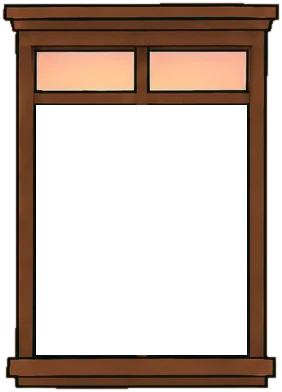
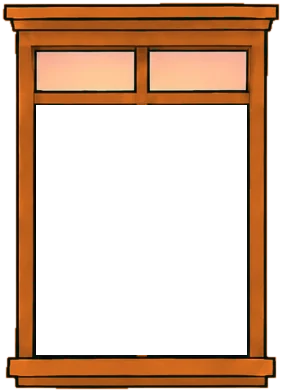
창문 — 레퍼런스 좌표 그대로 배치(벽 비율 1024×1440, 한 화면에 9개), 창틀은 메인 짙은 주황, 벽돌도 그림에서 오려 씀, 창마다 id

Changed region(s): [[0.0, 0.0, 0.9929, 1.0]]

diff --git a/src/pages/HousePage.tsx b/src/pages/HousePage.tsx
@@ -1,4 +1,4 @@
-import { useState, type CSSProperties } from 'react';
+import { useState } from 'react';
 import { useContent } from '../i18n';
 import type { ProgramId } from '../data/types';
 import { href } from '../lib/router';
@@ -21,6 +21,7 @@ import campingFrame from '../assets/windows/camping-frame.webp';
 import campingCover from '../assets/windows/camping-cover.webp';
 import wineFrame from '../assets/windows/wine-frame.webp';
 import wineCover from '../assets/windows/wine-cover.webp';
+import bricksUrl from '../assets/windows/bricks.webp';
 
 /**
  * PAGE 02 — 창문 탐색 (ROOM TOUR)
@@ -96,19 +97,14 @@ export function HousePage({ embedded = false }: { embedded?: boolean }) {
         </nav>
       ) : (
       <nav className="facade wrap" aria-label={ui.house.houseAria}>
-        {/* 벽에 자잘하게 그은 벽돌 스케치 — 창문 뒤 */}
-        <span className="facade__bricks" aria-hidden="true">
-          {BRICKS.map(([x, y]) => (
-            <span key={`${x}-${y}`} className="brick" style={{ left: `${x}%`, top: `${y}%` }} />
-          ))}
-        </span>
-        <ul className="facade__grid">
+        {/* 레퍼런스 그림(1024 × 1440 영역)과 같은 비율의 벽 — 창문 · 벽돌을 그림 속 좌표 그대로 놓고, 화면에 맞춰 통째로 줄어듦 */}
+        <div className="facade__wall">
+          {/* 벽돌 스케치 — 받은 그림에서 오려 낸 선 그대로 (창문과 같은 먹선) */}
+          <img className="facade__bricks" src={bricksUrl} alt="" aria-hidden="true" />
           {WINDOWS.map((w) => (
-            <li key={w.id}>
-              <Window {...w} />
-            </li>
+            <Window key={w.id} {...w} />
           ))}
-        </ul>
+        </div>
       </nav>
       )}
     </section>
@@ -116,45 +112,43 @@ export function HousePage({ embedded = false }: { embedded?: boolean }) {
 }
 
 /**
- * 창문 아홉 개 — 받은 창문 그림을 그대로 오려 씀(초록 창틀은 나무색으로, 벽은 투명).
+ * 창문 아홉 개 — 받은 창문 그림(1024 × 1536)을 창마다 따로 오려 씀. 초록 창틀은 웹진 메인 짙은 주황(--orange-ink)으로, 초록 벽은 투명.
  * 한 창 = 창틀 그림(frame, 큰 창 자리만 뚫림) + 큰 창 자리의 방 그림 + 그 앞을 가린 커튼 · 블라인드 · 간유리 · 덧창(cover).
- * w · h 는 그림 크기(px), pane 은 큰 창 자리(그림 기준 % — 왼쪽 · 위 · 너비 · 높이),
- * dx · dy 는 줄 맞춤에서 살짝 어긋나게 옮기는 정도(칸 기준 %) — 간격은 그대로, 배치만 불규칙하게.
+ * l · t · w 는 그림 속 위치 · 너비(벽 기준 %, 벽 = 그림의 y 40–1480 영역), ratio 는 창 그림 비율,
+ * pane 은 큰 창 자리(창 그림 기준 % — 왼쪽 · 위 · 너비 · 높이).
  */
 type Cover = 'curtain' | 'blind' | 'frost' | 'shutter';
-/** 벽돌 스케치 위치 (벽 기준 %, 왼쪽 · 위) — 창문 사이 빈 벽에 띄엄띄엄 */
-const BRICKS: [number, number][] = [
-  [3, 2], [62, 1], [93, 4], [35, 31], [95, 34], [1, 64], [64, 64], [30, 95], [88, 96],
-];
-type WindowArt = { id: ProgramId; frame: string; cover: string; w: number; h: number; pane: [number, number, number, number]; kind: Cover; dx: number; dy: number };
+type WindowArt = { id: ProgramId; frame: string; cover: string; kind: Cover; l: number; t: number; w: number; ratio: string; pane: [number, number, number, number] };
 const WINDOWS: WindowArt[] = [
-  { id: 'book', frame: bookFrame, cover: bookCover, w: 263, h: 340, pane: [11.03, 26.18, 77.57, 63.82], kind: 'curtain', dx: -3, dy: 4 },
-  { id: 'craft', frame: craftFrame, cover: craftCover, w: 275, h: 386, pane: [13.82, 25.91, 73.45, 65.03], kind: 'blind', dx: 4, dy: -9 },
-  { id: 'flower', frame: flowerFrame, cover: flowerCover, w: 264, h: 332, pane: [10.98, 27.71, 77.65, 61.75], kind: 'frost', dx: -2, dy: 8 },
-  { id: 'cinema', frame: cinemaFrame, cover: cinemaCover, w: 290, h: 378, pane: [12.07, 26.46, 75.86, 64.29], kind: 'blind', dx: 5, dy: -2 },
-  { id: 'lp', frame: lpFrame, cover: lpCover, w: 266, h: 385, pane: [12.41, 25.71, 75.19, 65.19], kind: 'curtain', dx: -4, dy: 10 },
-  { id: 'homemeal', frame: homemealFrame, cover: homemealCover, w: 278, h: 374, pane: [11.15, 26.2, 77.34, 64.44], kind: 'frost', dx: 3, dy: -6 },
-  { id: 'running', frame: runningFrame, cover: runningCover, w: 275, h: 400, pane: [14.55, 26.5, 70.91, 62], kind: 'shutter', dx: -5, dy: 6 },
-  { id: 'camping', frame: campingFrame, cover: campingCover, w: 282, h: 392, pane: [12.77, 26.79, 74.82, 63.78], kind: 'frost', dx: 2, dy: -5 },
-  { id: 'wine', frame: wineFrame, cover: wineCover, w: 274, h: 399, pane: [10.95, 24.06, 78.1, 66.67], kind: 'curtain', dx: 6, dy: 9 },
+  { id: 'book', frame: bookFrame, cover: bookCover, kind: 'curtain', l: 4.39, t: 7.64, w: 25.68, ratio: '263 / 340', pane: [11.03, 26.18, 77.57, 63.82] },
+  { id: 'craft', frame: craftFrame, cover: craftCover, kind: 'blind', l: 33.2, t: 1.32, w: 26.86, ratio: '275 / 386', pane: [13.82, 25.91, 73.45, 65.03] },
+  { id: 'flower', frame: flowerFrame, cover: flowerCover, kind: 'frost', l: 66.11, t: 8.4, w: 25.78, ratio: '264 / 332', pane: [10.98, 27.71, 77.65, 61.75] },
+  { id: 'cinema', frame: cinemaFrame, cover: cinemaCover, kind: 'blind', l: 3.22, t: 33.75, w: 28.32, ratio: '290 / 378', pane: [12.07, 26.46, 75.86, 64.29] },
+  { id: 'lp', frame: lpFrame, cover: lpCover, kind: 'curtain', l: 36.04, t: 35.56, w: 25.98, ratio: '266 / 385', pane: [12.41, 25.71, 75.19, 65.19] },
+  { id: 'homemeal', frame: homemealFrame, cover: homemealCover, kind: 'frost', l: 67.38, t: 35.9, w: 27.15, ratio: '278 / 374', pane: [11.15, 26.2, 77.34, 64.44] },
+  { id: 'running', frame: runningFrame, cover: runningCover, kind: 'shutter', l: 4.2, t: 65.97, w: 26.86, ratio: '275 / 400', pane: [14.55, 26.5, 70.91, 62] },
+  { id: 'camping', frame: campingFrame, cover: campingCover, kind: 'frost', l: 35.16, t: 66.32, w: 27.54, ratio: '282 / 392', pane: [12.77, 26.79, 74.82, 63.78] },
+  { id: 'wine', frame: wineFrame, cover: wineCover, kind: 'curtain', l: 69.73, t: 66.18, w: 26.76, ratio: '274 / 399', pane: [10.95, 24.06, 78.1, 66.67] },
 ];
 
-function Window({ id, frame, cover, w, h, pane, kind, dx, dy }: WindowArt) {
+/** 창 하나 — 따로 떨어진 요소(id: window-…)라 창마다 클릭 · 호버 · 여는 그림을 따로 붙일 수 있음 */
+function Window({ id, frame, cover, kind, l, t, w, ratio, pane }: WindowArt) {
   const { ui, experienceById, programById } = useContent();
   const e = experienceById[id];
   const place = programById[id].report.place.name;
-  const [l, t, pw, ph] = pane;
+  const [pl, pt, pw, ph] = pane;
   const half = { backgroundImage: `url(${cover})` };
   return (
     <a
+      id={`window-${id}`}
       className={`win win--${kind}`}
       href={href.stay(id)}
       aria-label={ui.house.roomAria(e.no, e.label, place)}
       data-track={`house_${id}`}
-      style={{ width: `${(w / 290) * 100}%`, aspectRatio: `${w} / ${h}`, translate: `${dx}% ${dy}%` } as CSSProperties}
+      style={{ left: `${l}%`, top: `${t}%`, width: `${w}%`, aspectRatio: ratio }}
     >
       {/* 큰 창 자리 — 방 그림, 그 앞을 가린 두 짝 */}
-      <span className="win__pane" style={{ left: `${l}%`, top: `${t}%`, width: `${pw}%`, height: `${ph}%` }} aria-hidden="true">
+      <span className="win__pane" style={{ left: `${pl}%`, top: `${pt}%`, width: `${pw}%`, height: `${ph}%` }} aria-hidden="true">
         <RoomArt id={id} />
         <span className="win__cover">
           <span className="win__half win__half--l" style={half} />
@@ -162,7 +156,7 @@ function Window({ id, frame, cover, w, h, pane, kind, dx, dy }: WindowArt) {
         </span>
       </span>
       <img className="win__frame" src={frame} alt="" />
-      <span className="win__label" style={{ left: `calc(${l}% + 6px)`, top: `calc(${t}% + 6px)` }} aria-hidden="true">
+      <span className="win__label" style={{ left: `calc(${pl}% + 5px)`, top: `calc(${pt}% + 5px)` }} aria-hidden="true">
         {e.label}
       </span>
     </a>

diff --git a/src/styles/house.css b/src/styles/house.css
@@ -58,18 +58,14 @@
 .explore.explore--home { position: relative; z-index: 5; padding-top: clamp(40px, 7vh, 80px); }
 .explore__hint, .explore__toggle { background: rgba(255, 255, 255, .6); }
 
-/* ── 창문 벽 — 크림색 벽에 나무색 창틀 아홉 개 (3 × 3) ─────────────────────────────── */
-.facade { padding-top: clamp(48px, 8vh, 96px); padding-bottom: clamp(64px, 10vh, 120px); } /* 집 · 목록 버튼과 넉넉히 */
-.facade { position: relative; }
-.facade__grid { position: relative; z-index: 1; display: grid; grid-template-columns: repeat(3, minmax(0, 1fr)); gap: clamp(40px, 8vw, 104px) clamp(30px, 7.5vw, 104px); max-width: 920px; margin-inline: auto; align-items: end; }
-/* 벽돌 스케치 — 가는 갈색 선으로 두 장씩 엇갈려 */
-.facade__bricks { position: absolute; inset: clamp(48px, 8vh, 96px) var(--gutter) clamp(64px, 10vh, 120px); max-width: 1000px; margin-inline: auto; pointer-events: none; }
-.brick { position: absolute; width: clamp(22px, 3vw, 38px); height: clamp(9px, 1.1vw, 14px); border: 1.5px solid rgba(94, 50, 28, .5); border-radius: 1px; }
-.brick::after { content: ""; position: absolute; left: 45%; top: calc(100% + 2px); width: 100%; height: 100%; border: inherit; border-radius: inherit; box-sizing: border-box; }
+/* ── 창문 벽 — 받은 그림과 같은 비율(1024 × 1440)의 벽에 창문 · 벽돌을 그림 속 좌표 그대로 ─────────────────────────────── */
+.facade { padding-top: clamp(28px, 5vh, 64px); padding-bottom: clamp(64px, 10vh, 120px); }
+/* 화면 폭과 높이 중 작은 쪽에 맞춰 통째로 줄어듦 — 휴대폰에서도 창문 아홉 개가 한 화면에 */
+.facade__wall { position: relative; aspect-ratio: 1024 / 1440; width: min(100%, 660px, (100svh - var(--header) - 32px) * 1024 / 1440); margin-inline: auto; }
+/* 벽돌 스케치 — 받은 그림에서 오려 낸 선 한 장, 벽 전체에 겹쳐 둠 */
+.facade__bricks { position: absolute; inset: 0; width: 100%; height: 100%; pointer-events: none; }
 
-/* 창 한 칸 — 받은 그림을 오려 낸 창틀(frame) 아래에, 큰 창 자리에 방 그림 + 가림막 두 짝 */
-.facade__grid > li { display: flex; justify-content: center; }
-.win { position: relative; display: block; text-decoration: none; color: var(--ink); -webkit-tap-highlight-color: transparent; outline-offset: 6px; }
+.win { position: absolute; display: block; text-decoration: none; color: var(--ink); -webkit-tap-highlight-color: transparent; outline-offset: 6px; }
 .win__frame { position: relative; z-index: 2; display: block; width: 100%; height: 100%; pointer-events: none; }
 .win__pane { position: absolute; z-index: 1; overflow: hidden; background: #F2DEC0; }
 .win__pane .room__art { position: absolute; inset: 0; width: 100%; height: 100%; }
